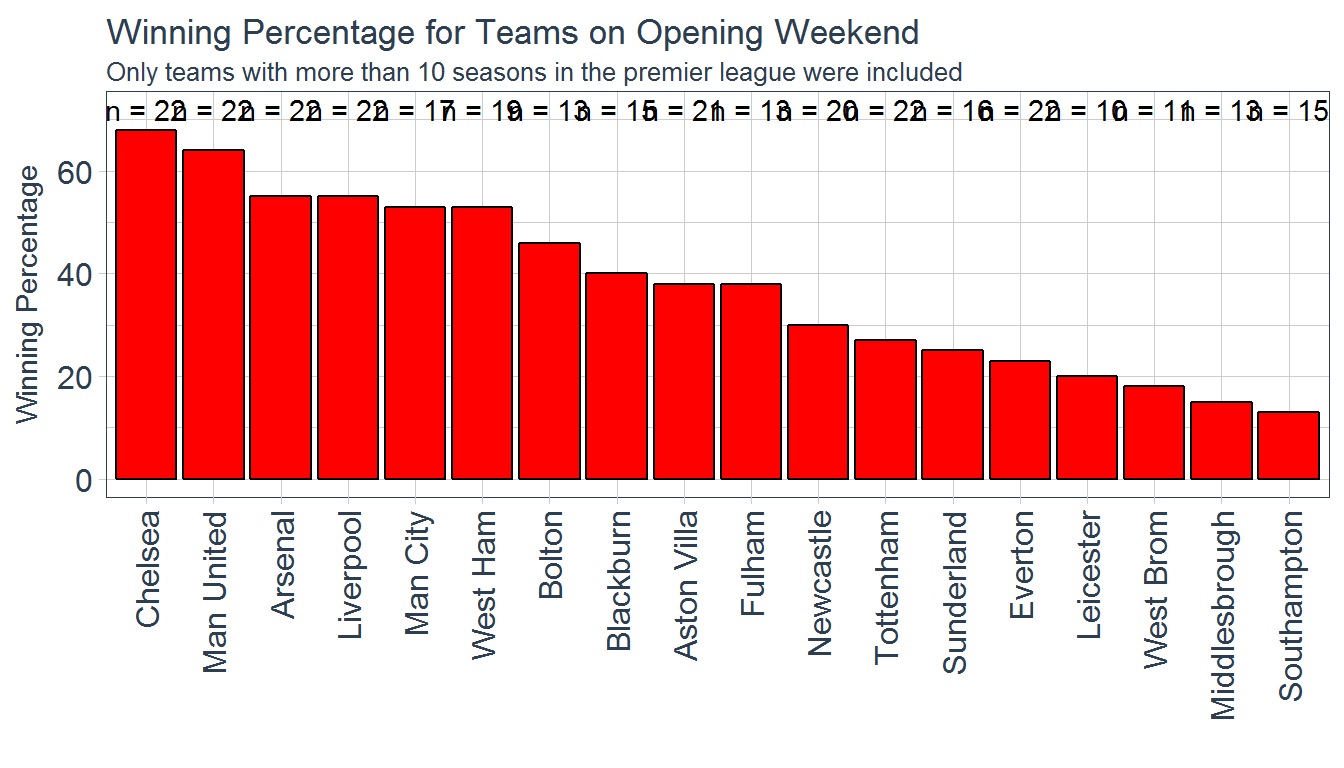
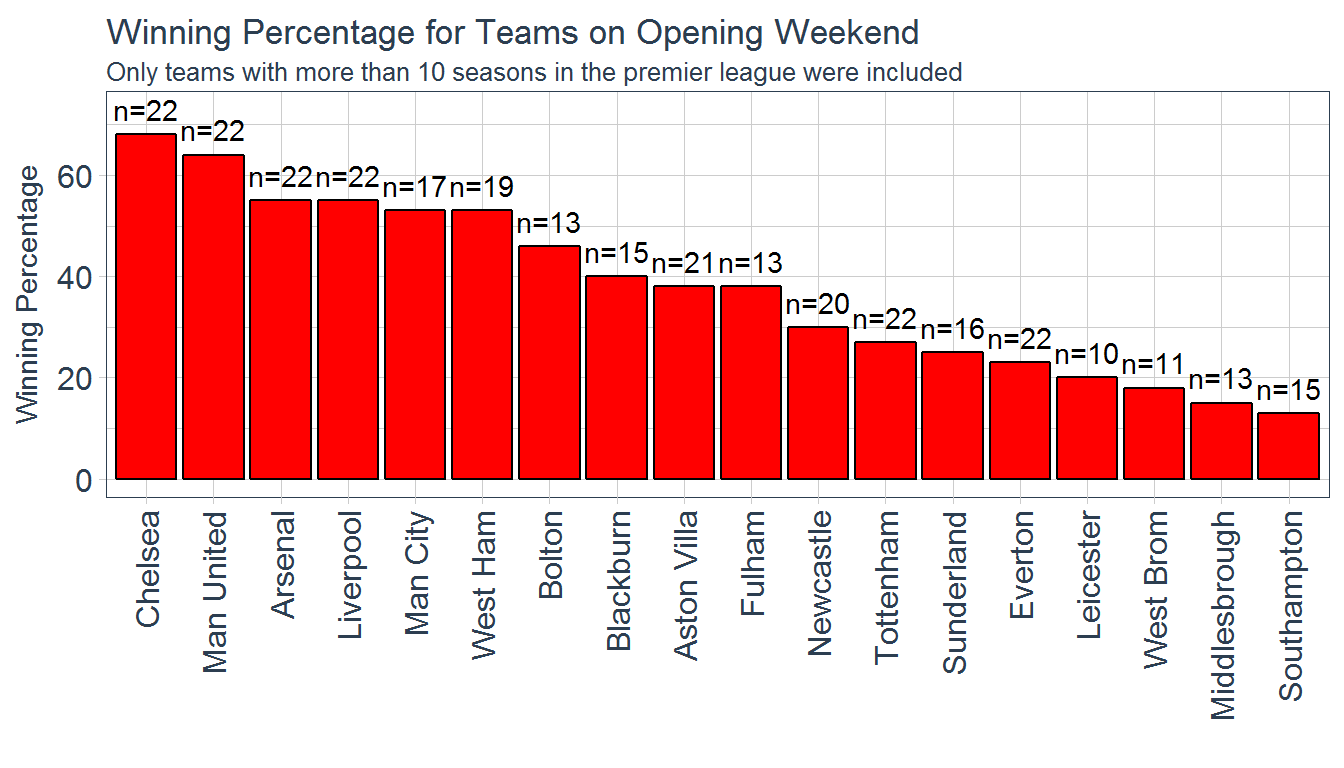
general changes

diff --git a/content/post/2017-08-09-exploring-english-premier-league-historical-match-results.html b/content/post/2017-08-09-exploring-english-premier-league-historical-match-results.html
@@ -157,7 +157,7 @@ data_tidy</code></pre>
   facet_wrap(~season, scales = &quot;free&quot;) +
   geom_line() +
   theme_tq() +
-  scale_x_date(date_breaks = &quot;1 month&quot;, date_labels = &quot;%m/%d&quot;) +
+  scale_x_date(date_breaks = &quot;2 month&quot;, date_labels = &quot;%m/%d&quot;) +
   theme(axis.text.x = element_text(angle = 90, hjust = 1, 
                                    vjust = 0.5, size = 12),
         axis.text.y = element_text(size = 12),
@@ -174,7 +174,7 @@ data_tidy</code></pre>
   facet_wrap(~season, scales = &quot;free&quot;) +
   geom_line() +
   theme_tq() +
-  scale_x_date(date_breaks = &quot;1 month&quot;, 
+  scale_x_date(date_breaks = &quot;2 month&quot;, 
                date_labels = &quot;%m/%d&quot;) +
   theme(axis.text.x = element_text(angle = 90, hjust = 1, 
                                    vjust = 0.5, size = 12),
@@ -418,7 +418,7 @@ home_adv_team</code></pre>
         axis.text.y = element_text(size = 12),
         strip.text = element_text(size = 12),
         legend.position = &quot;none&quot;) +
-  geom_text(aes(x = team, y = 85, label = paste(&quot;n =&quot;, as.character(num_games_total)))) +
+  geom_text(aes(x = team, y = winning_percentage + 5, label = paste0(&quot;n=&quot;, as.character(num_games_total)))) +
   labs(x = &quot;&quot;,
        y = &quot;Winning Percentage&quot;,
        title = &quot;Winning Percentage for Teams on Opening Weekend both Home and Away&quot;,
@@ -446,7 +446,7 @@ home_adv_team</code></pre>
         axis.text.y = element_text(size = 12),
         strip.text = element_text(size = 12),
         legend.position = &quot;none&quot;) +
-  geom_text(aes(x = team, y = 72, label = paste(&quot;n =&quot;, as.character(num_games_total)))) +
+  geom_text(aes(x = team, y = winning_percentage + 5, label = paste0(&quot;n=&quot;, as.character(num_games_total)))) +
   labs(x = &quot;&quot;,
        y = &quot;Winning Percentage&quot;,
        title = &quot;Winning Percentage for Teams on Opening Weekend&quot;,
